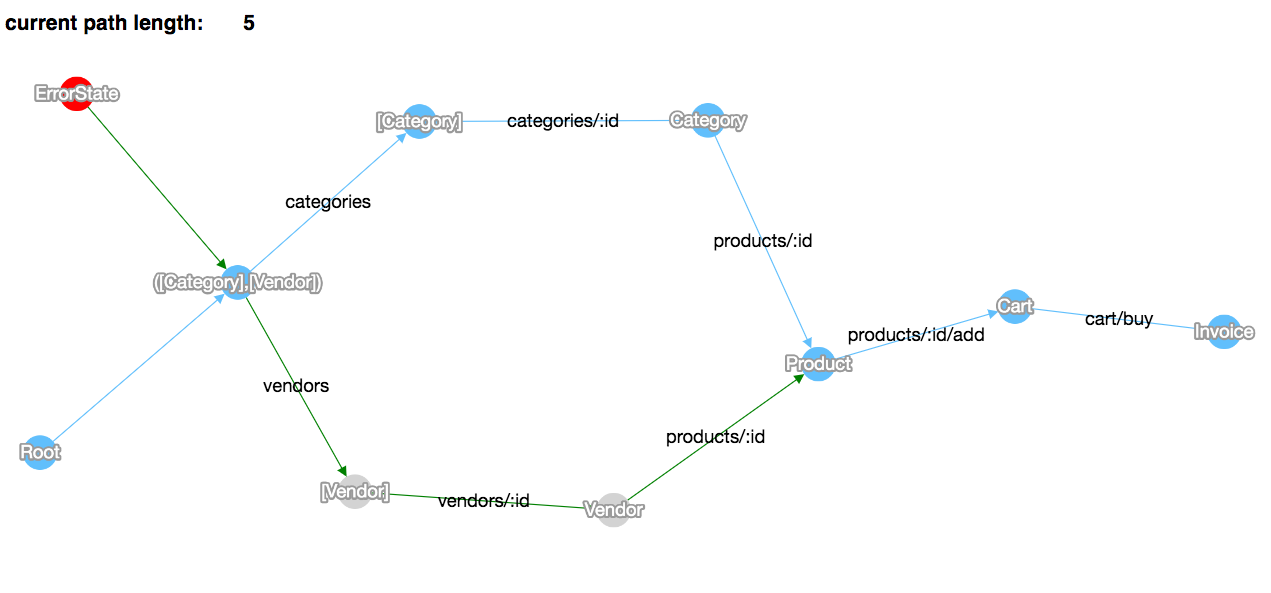
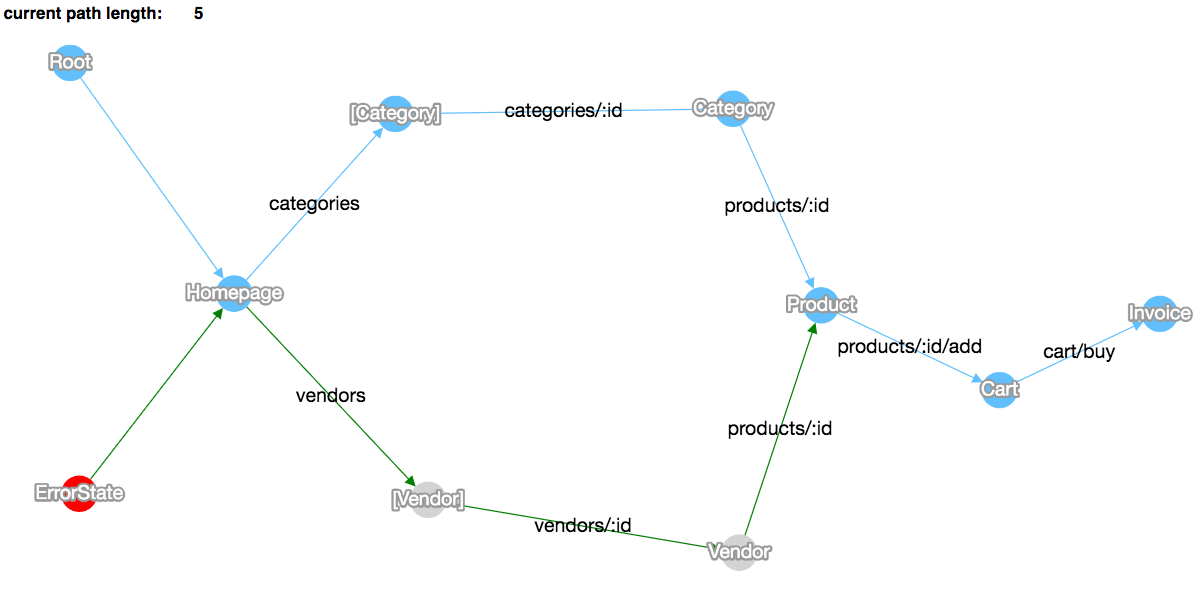
update sample

diff --git a/examples/shoppe1.js b/examples/shoppe1.js
@@ -1,1 +1,1 @@
-var ApiOutput = {"nodes":[{"data":{"id":"n0","name":"Root","noun":"lightgrey"}},{"data":{"id":"n1","name":"([Category],[Vendor])","noun":"lightgrey"}},{"data":{"id":"n2","name":"[Category]","noun":"lightgrey"}},{"data":{"id":"n3","name":"Category","noun":"lightgrey"}},{"data":{"id":"n4","name":"[Vendor]","noun":"lightgrey"}},{"data":{"id":"n5","name":"Vendor","noun":"lightgrey"}},{"data":{"id":"n6","name":"Product","noun":"lightgrey"}},{"data":{"id":"n7","name":"Cart","noun":"lightgrey"}},{"data":{"id":"n8","name":"Invoice","noun":"green"}},{"data":{"id":"n9","name":"ErrorState","noun":"red"}}],"edges":[{"data":{"source":"n0","target":"n1","label":"","color":"green"}},{"data":{"source":"n1","target":"n2","label":"categories","color":"green"}},{"data":{"source":"n1","target":"n4","label":"vendors","color":"green"}},{"data":{"source":"n2","target":"n3","label":"categories/:id","color":"green"}},{"data":{"source":"n3","target":"n6","label":"products/:id","color":"green"}},{"data":{"source":"n4","target":"n5","label":"vendors/:id","color":"green"}},{"data":{"source":"n5","target":"n6","label":"products/:id","color":"green"}},{"data":{"source":"n6","target":"n7","label":"products/:id/add","color":"purple"}},{"data":{"source":"n7","target":"n8","label":"cart/buy","color":"purple"}},{"data":{"source":"n9","target":"n1","label":"","color":"green"}}]};
+var ApiOutput = {"nodes":[{"data":{"id":"n0","name":"Root","noun":"lightgrey"}},{"data":{"id":"n1","name":"Homepage","noun":"lightgrey"}},{"data":{"id":"n2","name":"[Category]","noun":"lightgrey"}},{"data":{"id":"n3","name":"Category","noun":"lightgrey"}},{"data":{"id":"n4","name":"[Vendor]","noun":"lightgrey"}},{"data":{"id":"n5","name":"Vendor","noun":"lightgrey"}},{"data":{"id":"n6","name":"Product","noun":"lightgrey"}},{"data":{"id":"n7","name":"Cart","noun":"lightgrey"}},{"data":{"id":"n8","name":"Invoice","noun":"green"}},{"data":{"id":"n9","name":"ErrorState","noun":"red"}}],"edges":[{"data":{"source":"n0","target":"n1","label":"","color":"green"}},{"data":{"source":"n1","target":"n2","label":"categories","color":"green"}},{"data":{"source":"n1","target":"n4","label":"vendors","color":"green"}},{"data":{"source":"n2","target":"n3","label":"categories/:id","color":"green"}},{"data":{"source":"n3","target":"n6","label":"products/:id","color":"green"}},{"data":{"source":"n4","target":"n5","label":"vendors/:id","color":"green"}},{"data":{"source":"n5","target":"n6","label":"products/:id","color":"green"}},{"data":{"source":"n6","target":"n7","label":"products/:id/add","color":"purple"}},{"data":{"source":"n7","target":"n8","label":"cart/buy","color":"purple"}},{"data":{"source":"n9","target":"n1","label":"","color":"green"}}]};

diff --git a/README.md b/README.md
@@ -7,7 +7,7 @@ Inspired by [choclety](https://github.com/mooreniemi/choclety).
 
 [![example graph](docs/img/example_graph.png) See a live demo.](https://corajr.github.io/choclety-hask/index.html)
 
-## Use
+## Purpose
 
 This library helps you render
 your [Servant](http://haskell-servant.readthedocs.io) API as a state machine,
